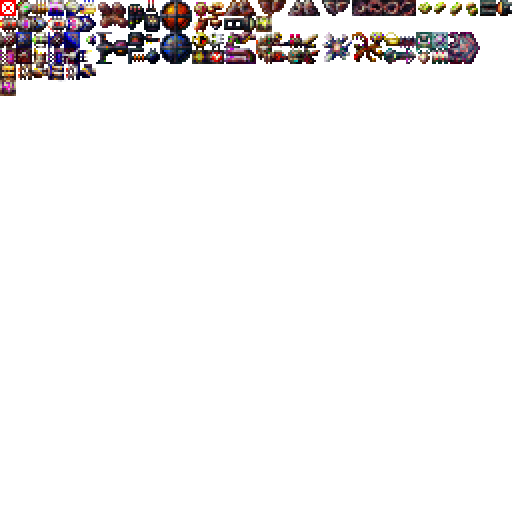
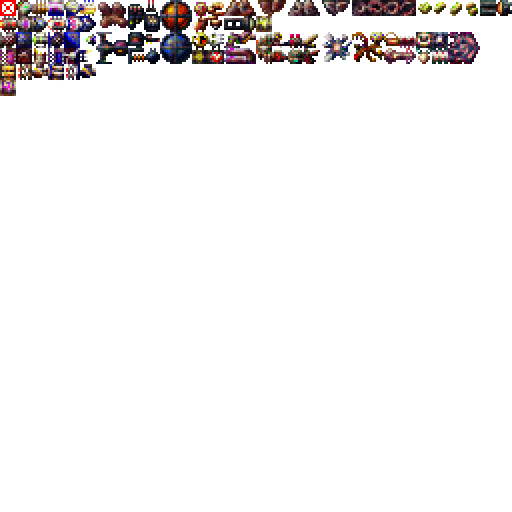
playing with backgrounds

Changed region(s): [[0.7188, 0.0625, 0.9375, 0.125]]

diff --git a/missions.js b/missions.js
@@ -364,7 +364,7 @@ var missions = [
 	'componentsReward':droneGear,
 	'componentsCount':2,
 	'hazeRed':0.8,
-	'hazeWhite':0.1,
+	'hazeWhite':0.4,
 	'hazePurple':0.7,
 	'hazeRedTint':16777215,
 	'hazeWhiteTint':16777215,

diff --git a/ships.js b/ships.js
@@ -91,7 +91,21 @@ var containers=[
 	-1,-1,-1],
 [48,48,48,48]
 ]
+;
 
+var plants=[
+[
+  -1,
+  87,
+  -1,
+  118,
+  120,
+  119,
+  -1,
+  -1,
+  -1
+]
+];
 var crystals=[
 [
   -1,

diff --git a/components.js b/components.js
@@ -1138,7 +1138,7 @@ var cmp = [
 	'name':'Chainsaw-front',
 	'flavor':'--',
 	'bonus':function(target){
-
+		
 	}
 },
 {
